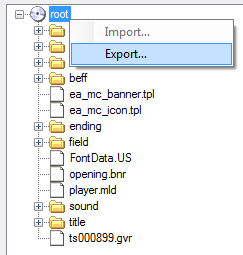
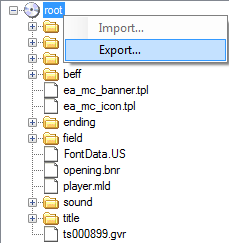
Updated 'Installation' section and screenshots in README.md

Changed region(s): [[0.0, 0.0, 1.0, 1.0]]

diff --git a/README.md b/README.md
@@ -7,7 +7,7 @@ Skies of Arcadia Legends Encore also known as Eternal Arcadia Legends Encore
 
 ### Features
 
-* See [CHANGELOG.md](CHANGELOG.md) for details
+* See [CHANGELOG.md](CHANGELOG.md) for more details.
 
 ### Prerequisites
 
@@ -34,15 +34,16 @@ Skies of Arcadia Legends Encore also known as Eternal Arcadia Legends Encore
    ![GCRebuilder](doc/install4.png)
 5. Right-click on `root` in the tree structure, select `Export` and extract 
    the files to any directory wherever you want. A new folder called `root` 
-   with all game contents will be created. After that, choose `Image > Close`.
+   with all game contents will be created. After export is finished, choose 
+   `Image > Close`.
    ![GCRebuilder](doc/install5.png)
 6. Open the correct directory `share/gc-*-retail/gameroot` that match with your 
-   `Region` attribute from step 4.
-    * `share/gc-eu-retail/gameroot` for region `EUR/PAL`
-    * `share/gc-jp-retail/gameroot` for region `JAP/NTSC`
-    * `share/gc-us-retail/gameroot` for region `USA/NTSC`
-7. Copy and replace all contents of that directory into your extracted `root` 
-   folder from step 5.
+   `Region` attribute from step 4 and copy all contents of that folder.
+    * `share/gc-eu-retail/gameroot` for `EUR/PAL` region 
+    * `share/gc-jp-retail/gameroot` for `JAP/NTSC` region 
+    * `share/gc-us-retail/gameroot` for `USA/NTSC` region 
+7. Paste all contents into your extracted `root` folder from step 5 and 
+   replace the files.
    ![File Explorer](doc/install7.png)
 8. In GCRebuilder, select `Root > Open` and choose your modified `root`
    folder from step 7. If you have done everything right, you are able to 
